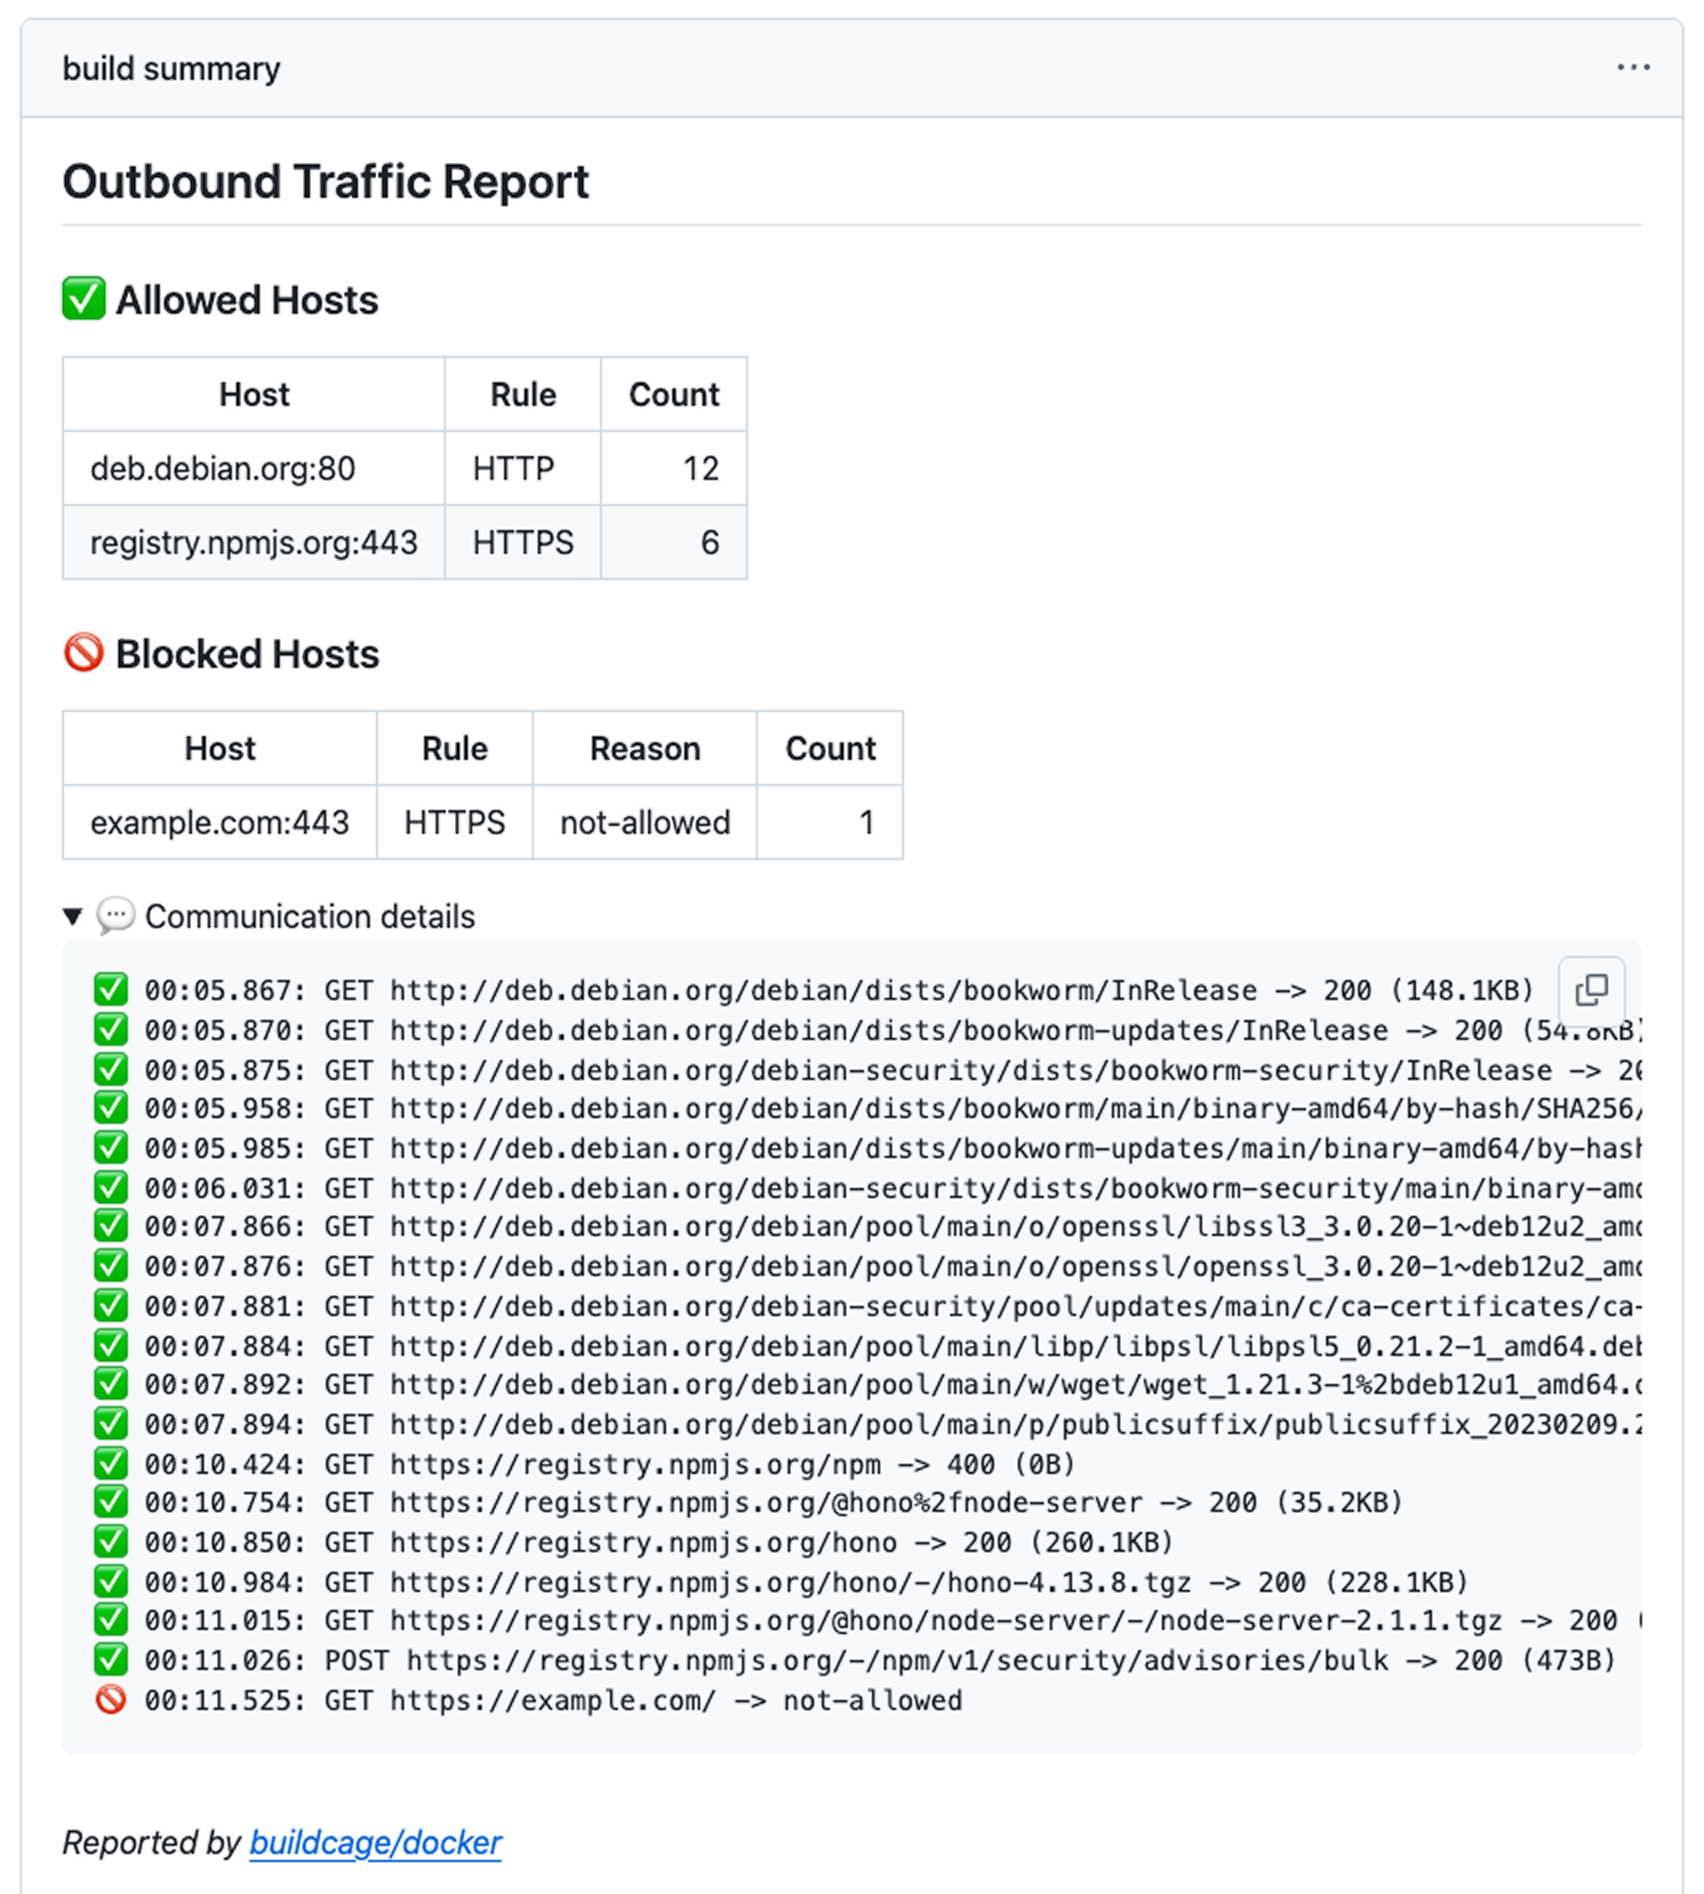
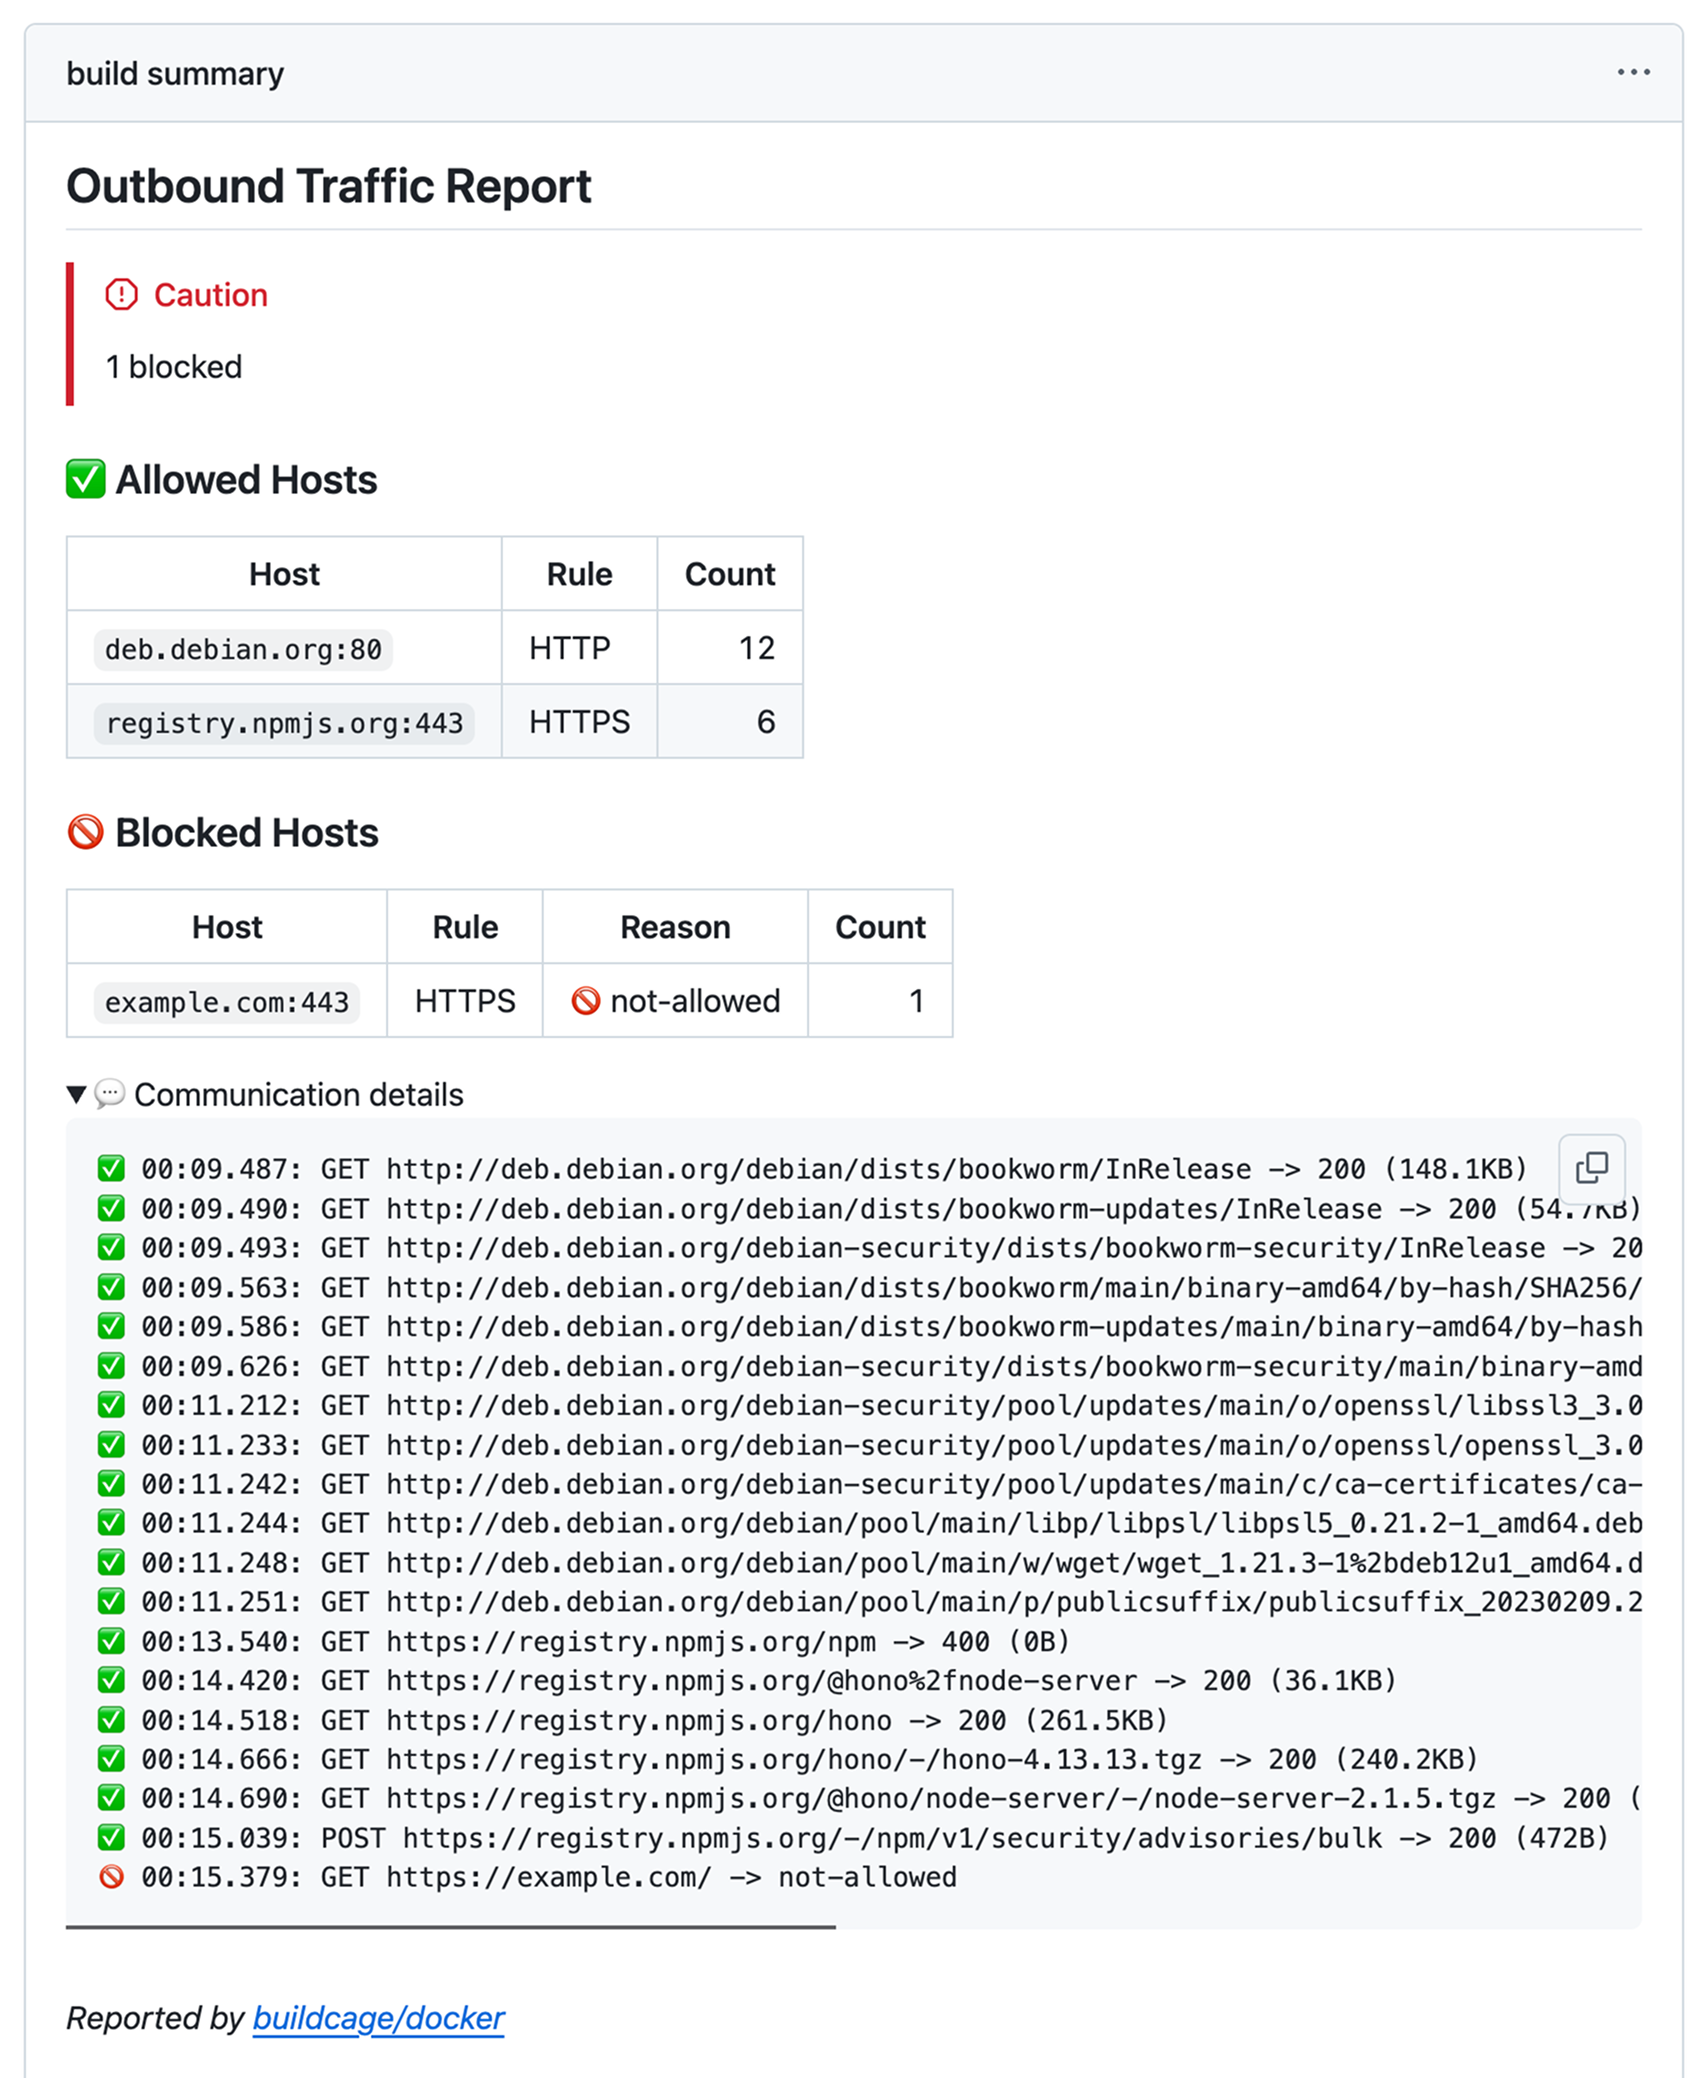
docs: update restrict mode report screenshot

Changed region(s): [[0.0, 0.0312, 0.9642, 0.9345], [0.0311, 0.9657, 0.311, 0.9968]]

diff --git a/index.html b/index.html
@@ -239,7 +239,7 @@
             src="assets/report-inspect-restrict-mode.png"
             alt="Buildcage report listing allowed destinations and one blocked connection"
             width="1704"
-            height="1894"
+            height="2078"
             loading="lazy"
           />
           <figcaption>
